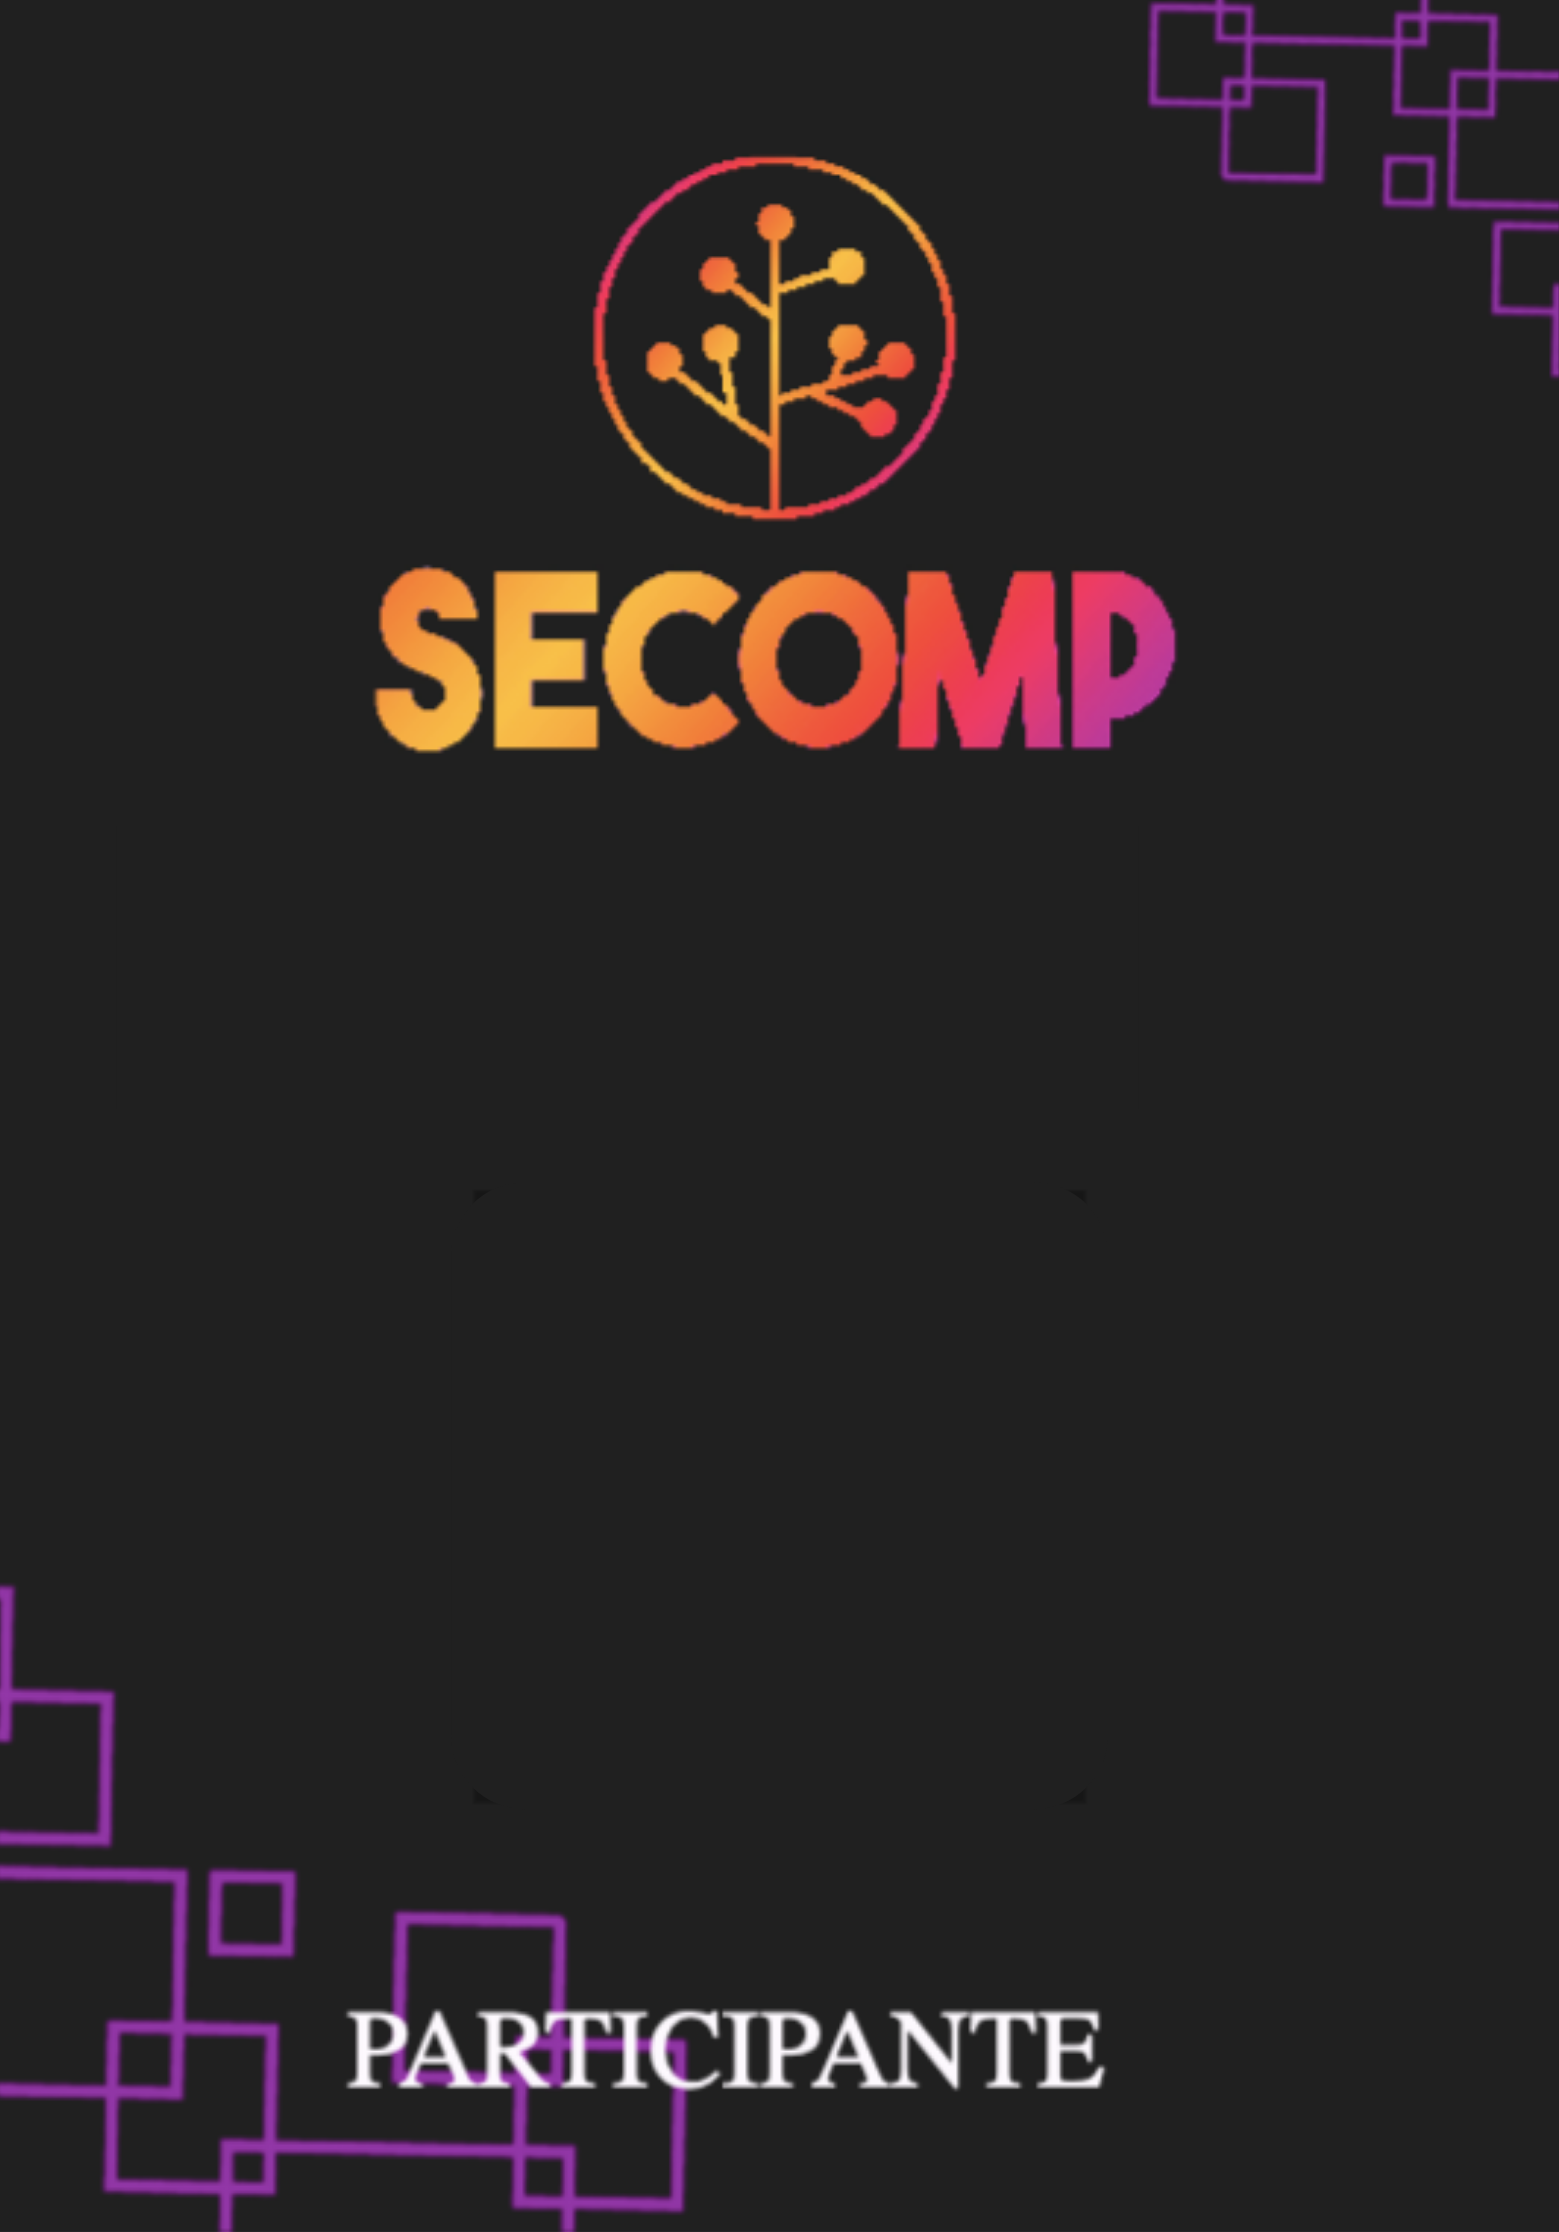
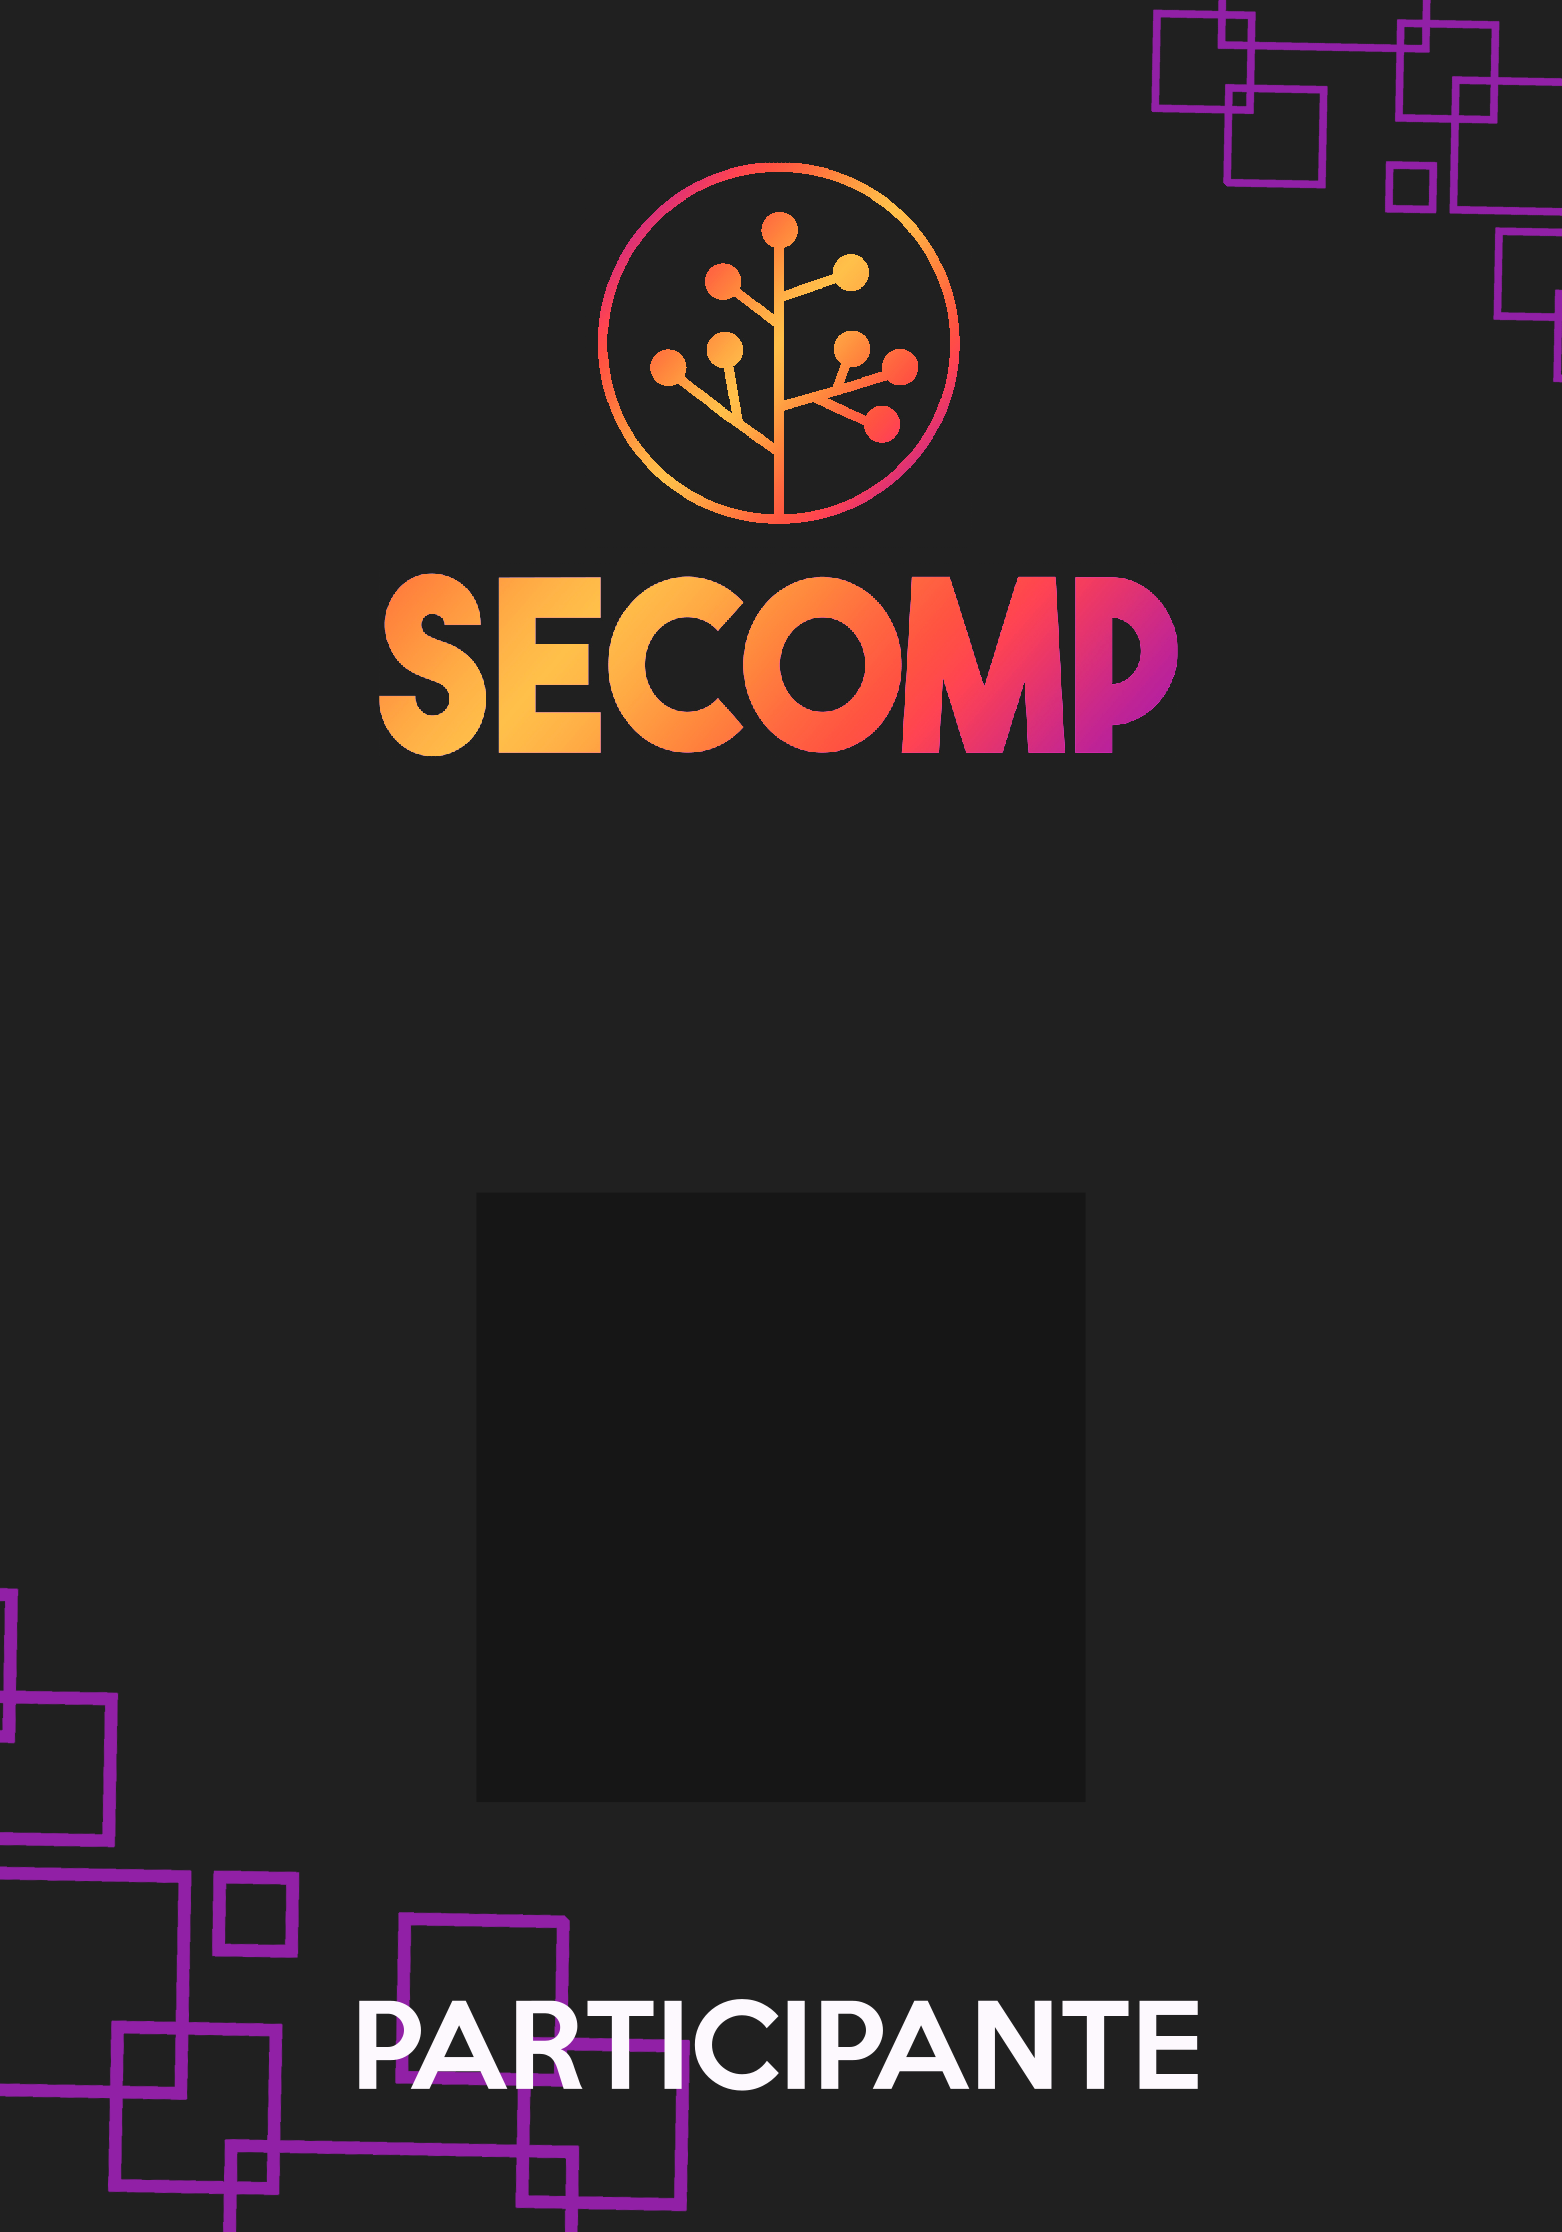
versão hd do template + correção do gerarCrachá
obs: vi que você estava cortando o QR code p/ remover a parte branca ao redor do código, mas a área branca depende do tamanho do quadradinho do qr code, então eu mudei a opção border no construtor para replicar esse efeito sem o crop

Changed region(s): [[0.0, 0.711, 0.7697, 1.0], [0.2463, 0.0618, 0.7389, 0.3401], [0.7389, 0.0, 1.0, 0.1855]]

diff --git a/cracha-email/gerarCracha.py b/cracha-email/gerarCracha.py
@@ -1,6 +1,27 @@
 import qrcode
 from PIL import Image, ImageDraw, ImageFont
 
+# https://gist.github.com/Eyongkevin/adbac2334f1355d8045111c264d80621
+
+
+def wrapText(text, font, maxwidth):
+    lines = []
+    if font.getsize(text)[0] <= maxwidth:
+        lines.append(text)
+    else:
+        words = text.split()
+        i = 0
+        while i < len(words):
+            line = ''
+            while i < len(words) and font.getsize(line + words[i])[0] <= maxwidth:
+                line += words[i] + " "
+                i += 1
+            if not line:
+                line = words[i]
+                i += 1
+            lines.append(line.strip())
+    return '\n'.join(lines)
+
 
 class GerarCracha():
     def gerar(self, nome):
@@ -12,19 +33,25 @@ class GerarCracha():
         self.cracha = self.cracha.convert("RGB")
         self.cracha.save(f"cracha-email/crachasGeradosPDF/cracha{nome}.pdf")
 
-    def __setNomeCracha(self, nome):
+    def __setNomeCracha(self, nome: str):
         # font_type = ImageFont.truetype('Arial.ttf', 98)
         font_type = ImageFont.truetype(
-            "cracha-email/keep_calm/KeepCalm-Medium.ttf", 98, encoding="unic")
+            "cracha-email/keep_calm/KeepCalm-Medium.ttf", 110, encoding="unic")
+
+        # sanitize o nome Deixando-o Na Forma de Título
+        nome = nome.strip().title().replace(" De ", " de ")
 
         draw = ImageDraw.Draw(self.cracha)
-        draw.text(xy=(200, 950), text=nome, fill=(
-            255, 255, 255), font=font_type)
+        draw.text(xy=(781, 980), text=wrapText(nome, font_type, 1320), fill=(
+            255, 255, 255), font=font_type,
+            align="center", spacing=32, anchor="mm")
 
     def __gerarQRcode(self, nome):
-        return qrcode.make(nome)
+        qr = qrcode.QRCode(border=2)
+        qr.add_data(nome)
+        return qr.make_image()
 
     def __mergeImageQRcode(self, qrCode):
-        qrCode = qrCode.crop((35, 35, 335, 335))
-        qrCode = qrCode.resize((600, 600))
-        self.cracha.paste(qrCode, (470, 1220), mask=qrCode)
+        # qrCode = qrCode.crop((35, 35, 335, 335))
+        qrCode = qrCode.resize((505, 505))
+        self.cracha.paste(qrCode, (526, 1242), mask=qrCode)
